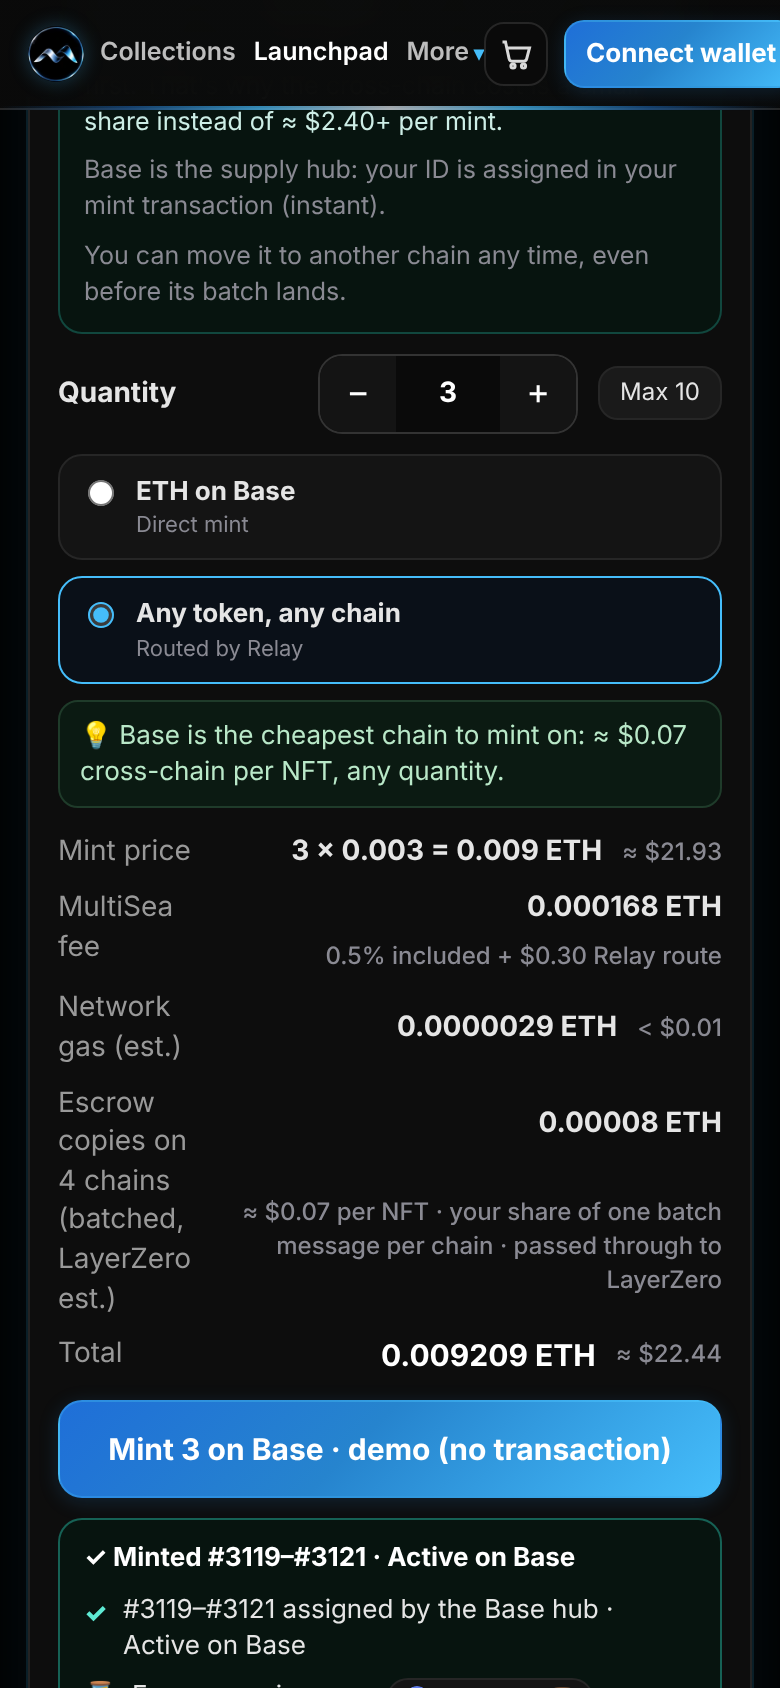
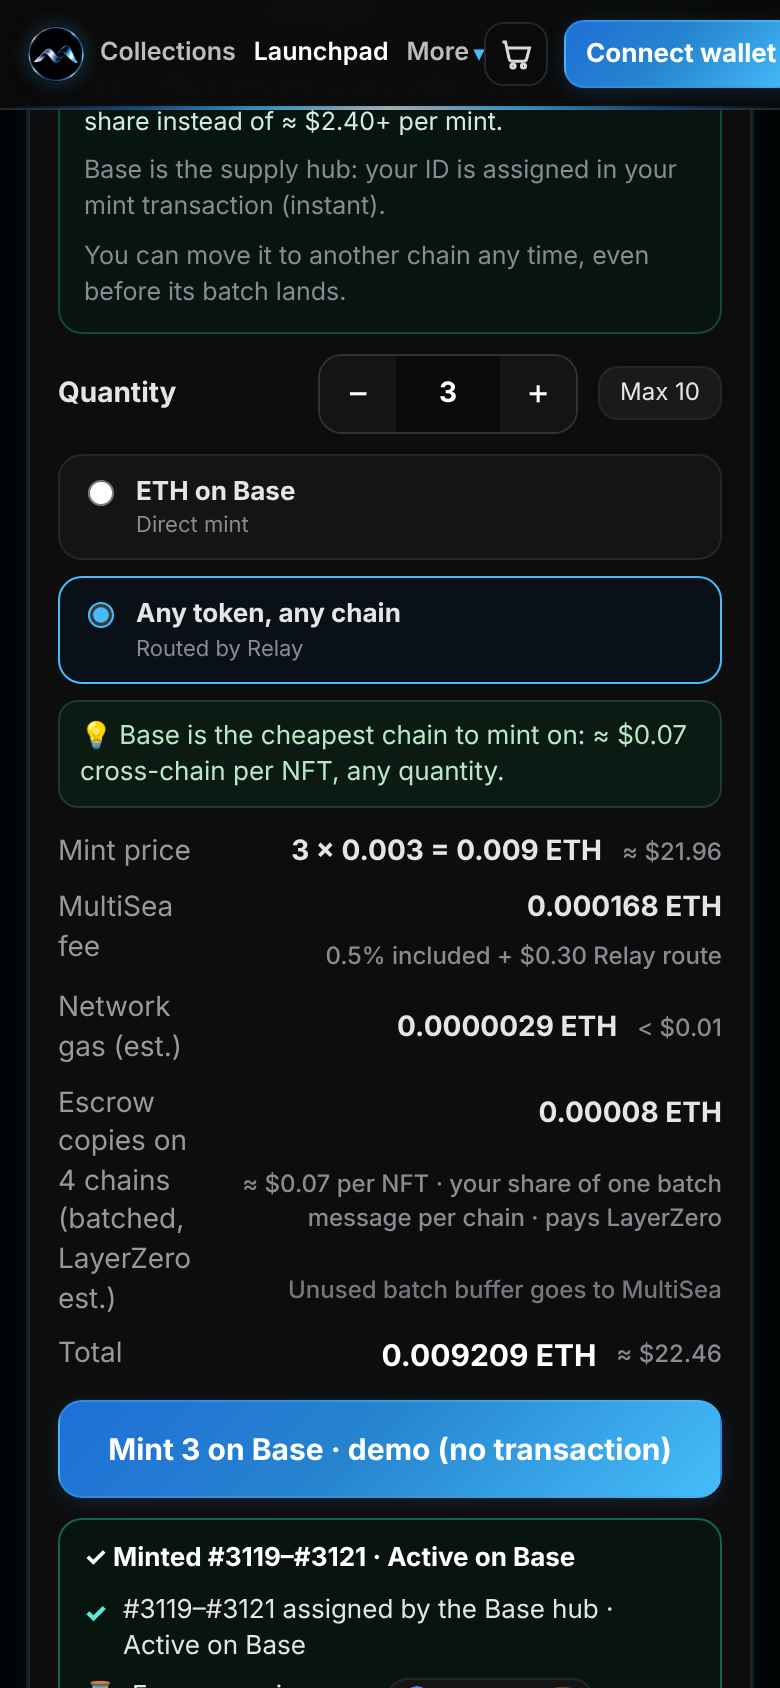
launchpad: batch-pool leftovers swept to the MultiSea fee wallet (decision M3b)
sweepPool now pays a drop's unused copy-pool leftover to drop.feeWallet() (the
factory-configured fee recipient) instead of the creator payout, straight from
the escrow so it never enters the drop's 0.5% withdraw math. It only sweeps
true leftovers: empty queue, minting closed, a 3-day grace after the last
queued range unless sold out, only that drop's pool, and the escrow must still
cover totalPools + totalRefunds. Tests: leftover to fee wallet, creator gets
nothing, no double charge, pending funds protected. UI notes 'Unused batch
buffer goes to MultiSea'.

Changed region(s): [[0.3385, 0.6469, 0.9231, 0.7701]]

diff --git a/src/launchpad.ts b/src/launchpad.ts
@@ -79,7 +79,9 @@ function breakdown(d: Drop) {
   const gasNat = g ? Number(((isMulti(d) ? OMNI_GAS_UNITS(qty, c.chain === HUB, isBatched(d)) : GAS_UNITS(qty)) * 125n / 100n + 10_000n) * g) / 1e18 : null;
   const feeNat = (price * FEE_BPS) / 10_000; const relayUsd = pay === 'relay' ? FLAT_FEE_USD : 0;
   // Multichain: the LayerZero messages that create the escrow copies are a pass-through cost, shown on their OWN line
-  // (not inside "MultiSea fee": MultiSea keeps none of it). Estimate from the Oct 17 fork quotes; production uses quoteMint().
+  // (not inside "MultiSea fee"). It pays LayerZero; in BATCHED mode the unused part of the batch-pool buffer is swept to
+  // the MultiSea fee wallet at the end of the drop (decision M3b), which the line says. Estimate from the Oct 17 fork
+  // quotes; production uses quoteMint().
   const legs = isMulti(d) ? mintLegs(d, c.chain, qty) : []; const lzUsdTot = legsUsd(legs); const lzNat = r ? lzUsdTot / r : 0;
   const total = price + (gasNat ?? 0) + (r ? relayUsd / r : 0) + lzNat;
   return `<div class="kv bkv ldkv"><span>Mint price</span><b>${qty} × ${fmt(unit)} = ${fmt(price)} ${esc(nat)} <i class="usd">${usdTxt(r ? price * r : null)}</i></b>
@@ -89,12 +91,13 @@ function breakdown(d: Drop) {
     <span>Total</span><b class="xtot">${fmt(total)} ${esc(nat)} <i class="usd">${usdTxt(r ? total * r : null)}</i></b></div>`;
 }
 // BATCHED (default): the escrow copies ride in the next batch, so the minter pays a per-NFT share of one batch message per
-// chain (+ REQUEST/CONFIRM when not minting on Base). Own line, never inside "MultiSea fee": it is all passed to LayerZero.
+// chain (+ REQUEST/CONFIRM when not minting on Base). Own line, not inside "MultiSea fee". The share includes a 20% buffer;
+// what the batches don't use goes to MultiSea when the drop closes (≈ $0.01 per NFT at full batches).
 function batchedLine(d: Drop, k: string, legs: ReturnType<typeof mintLegs>, lzNat: number, nat: string) {
   const tot = legsUsd(legs); const share = legs.find(l => l.kind === 'share')!.usd; const conf = tot - share;
   const n = d.chains.length - 1; const per = tot / qty;
   const how = k === HUB ? `your share of one batch message per chain` : `batch share $${share.toFixed(2)} + confirm via Base $${conf.toFixed(2)}`;
-  return `<span>Escrow copies on ${n} chains (batched, LayerZero est.)</span><b>${lzNat ? fmt(lzNat, 5) + ' ' + esc(nat) : ''} <i class="usd">≈ $${per.toFixed(2)} per NFT · ${how} · passed through to LayerZero</i></b>`;
+  return `<span>Escrow copies on ${n} chains (batched, LayerZero est.)</span><b>${lzNat ? fmt(lzNat, 5) + ' ' + esc(nat) : ''} <i class="usd">≈ $${per.toFixed(2)} per NFT · ${how} · pays LayerZero</i><i class="usd ldbuf">Unused batch buffer goes to MultiSea</i></b>`;
 }
 // Gentle nudge where quantity really lowers the per-NFT cost (the REQUEST/CONFIRM pair is per tx, not per NFT).
 function qtyHint(d: Drop, k: string) {

diff --git a/src/launchcreate.ts b/src/launchcreate.ts
@@ -51,7 +51,7 @@ function batchBox() {
   const opt = (k: 'batched' | 'at-mint', t: string, x: string) => `<label class="ldopt ${st.copyMode === k ? 'on' : ''}"><input type="radio" name="copyMode" value="${k}" ${st.copyMode === k ? 'checked' : ''}><b>${t}</b><span class="mut small">${x}</span></label>`;
   return `<div class="gh">Escrow copies</div><div class="ldopts two">${opt('batched', 'Batched <span class="ldtag mc">Default</span>', `Base queues the copies and sends one LayerZero message per chain per batch. ≈ $${share.toFixed(2)} per NFT on Base.`)}${opt('at-mint', 'At every mint', `Copies are sent with each mint. Copies land within minutes, but ≈ $${atMint.toFixed(2)}+ per mint.`)}</div>
    ${b ? `<div class="ldbatch">${inp('batchK', `Batch size K <span class="mut small">IDs per batch, ${BATCH.minK}-${BATCH.maxK} (default ${BATCH.defaultK})</span>`, `type="number" min="${BATCH.minK}" max="${BATCH.maxK}"`)}${inp('batchT', `Batch window T <span class="mut small">minutes after the oldest queued ID, ${BATCH.minTMin}-${BATCH.maxTMin} (default ${BATCH.defaultTMin})</span>`, `type="number" min="${BATCH.minTMin}" max="${BATCH.maxTMin}"`)}</div>
-   <p class="mut small">A batch goes out when K IDs are queued or T minutes after the oldest one, whichever comes first (and right away at sell-out). Anyone can trigger it; it's paid from a small per-mint share that the contract keeps for this drop. Whatever is left at the end goes to your payout, never to MultiSea. NFTs are Active on the minter's chain right away; only the escrow copies wait. Larger K means a cheaper share but a longer wait on slow days.</p>` : ''}`;
+   <p class="mut small">A batch goes out when K IDs are queued or T minutes after the oldest one, whichever comes first (and right away at sell-out). Anyone can trigger it; it's paid from a small per-mint share that the contract keeps for this drop. Unused batch buffer left at the end goes to MultiSea (it is not taken from your proceeds). NFTs are Active on the minter's chain right away; only the escrow copies wait. Larger K means a cheaper share but a longer wait on slow days.</p>` : ''}`;
 }
 const inp = (k: keyof St, label: string, extra = '') => `<label>${label}<input data-k="${k}" value="${esc(st[k] as string)}" ${extra}></label>`;
 function stepHtml(): string {

diff --git a/src/style.css b/src/style.css
@@ -533,3 +533,4 @@ svg.fi{width:17px;height:17px;stroke:currentColor;fill:none;stroke-width:2;strok
 .ldbatch{display:grid;grid-template-columns:1fr 1fr;gap:10px}
 @media (max-width:520px){.ldbatch{grid-template-columns:1fr}}
 .ldhrow .ldq{display:block;font-style:normal;margin-top:2px}
+.ldkv i.ldbuf{display:block;margin-top:2px;opacity:.85}
